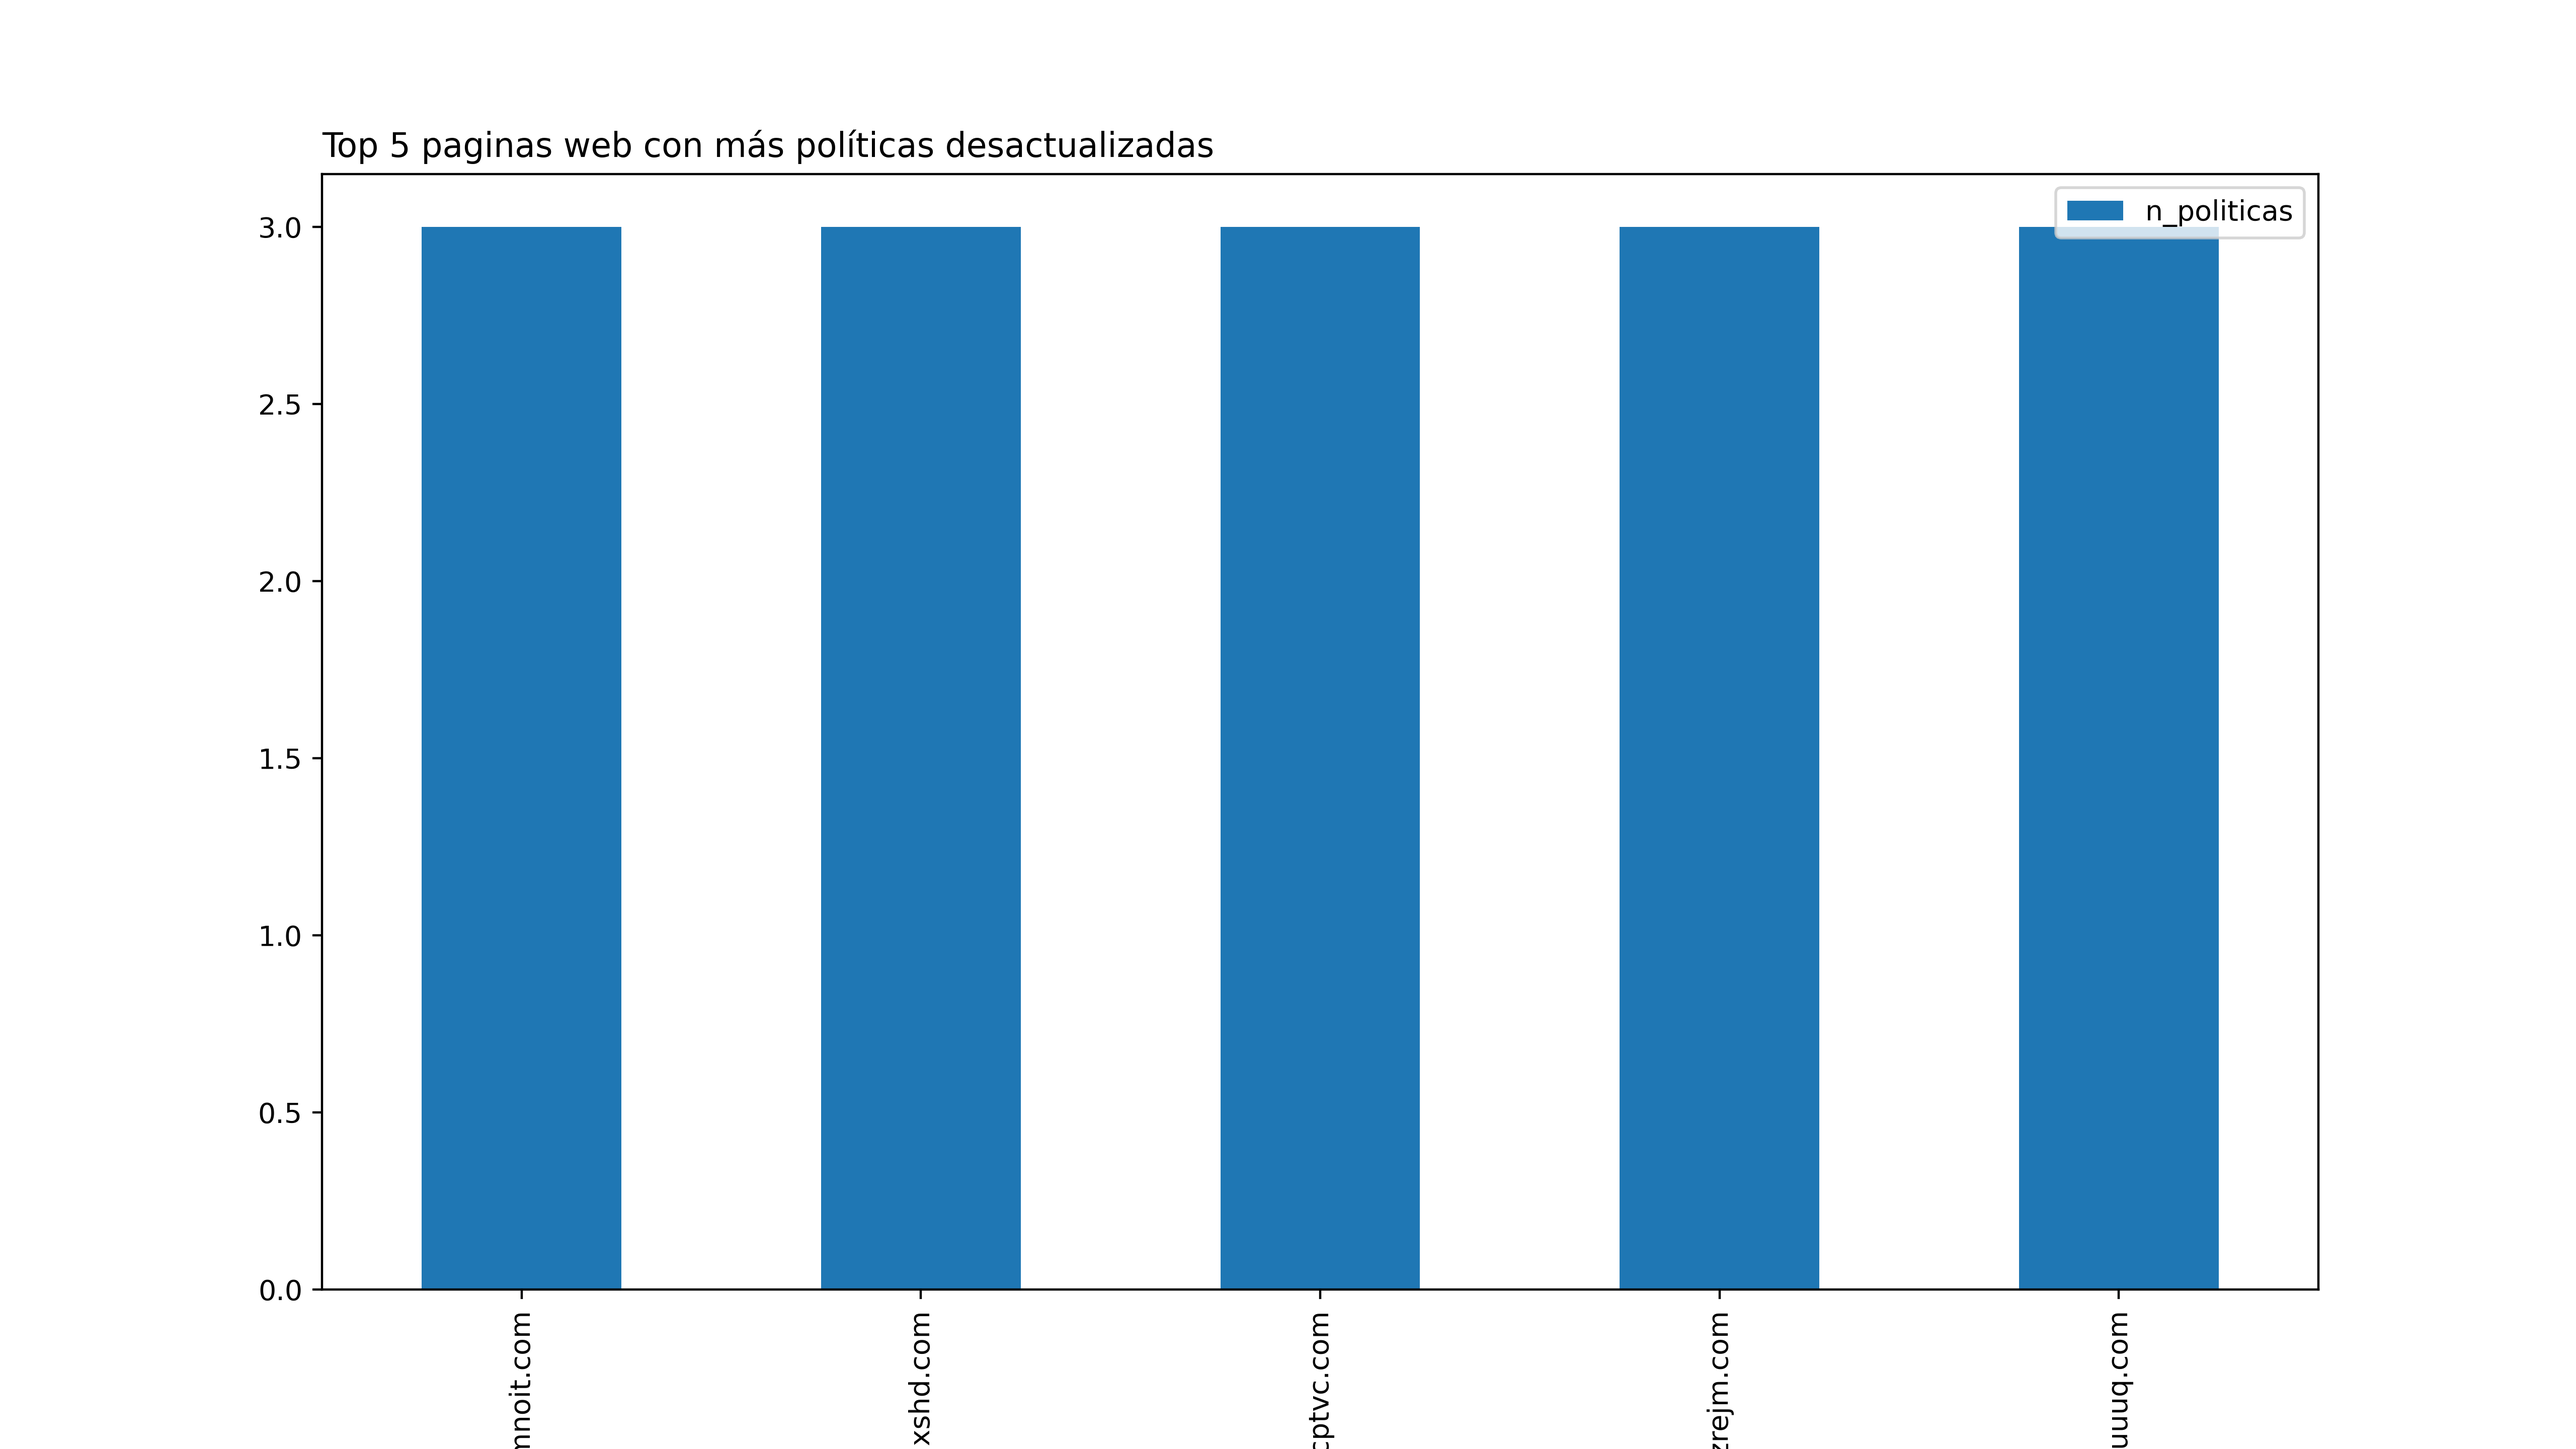
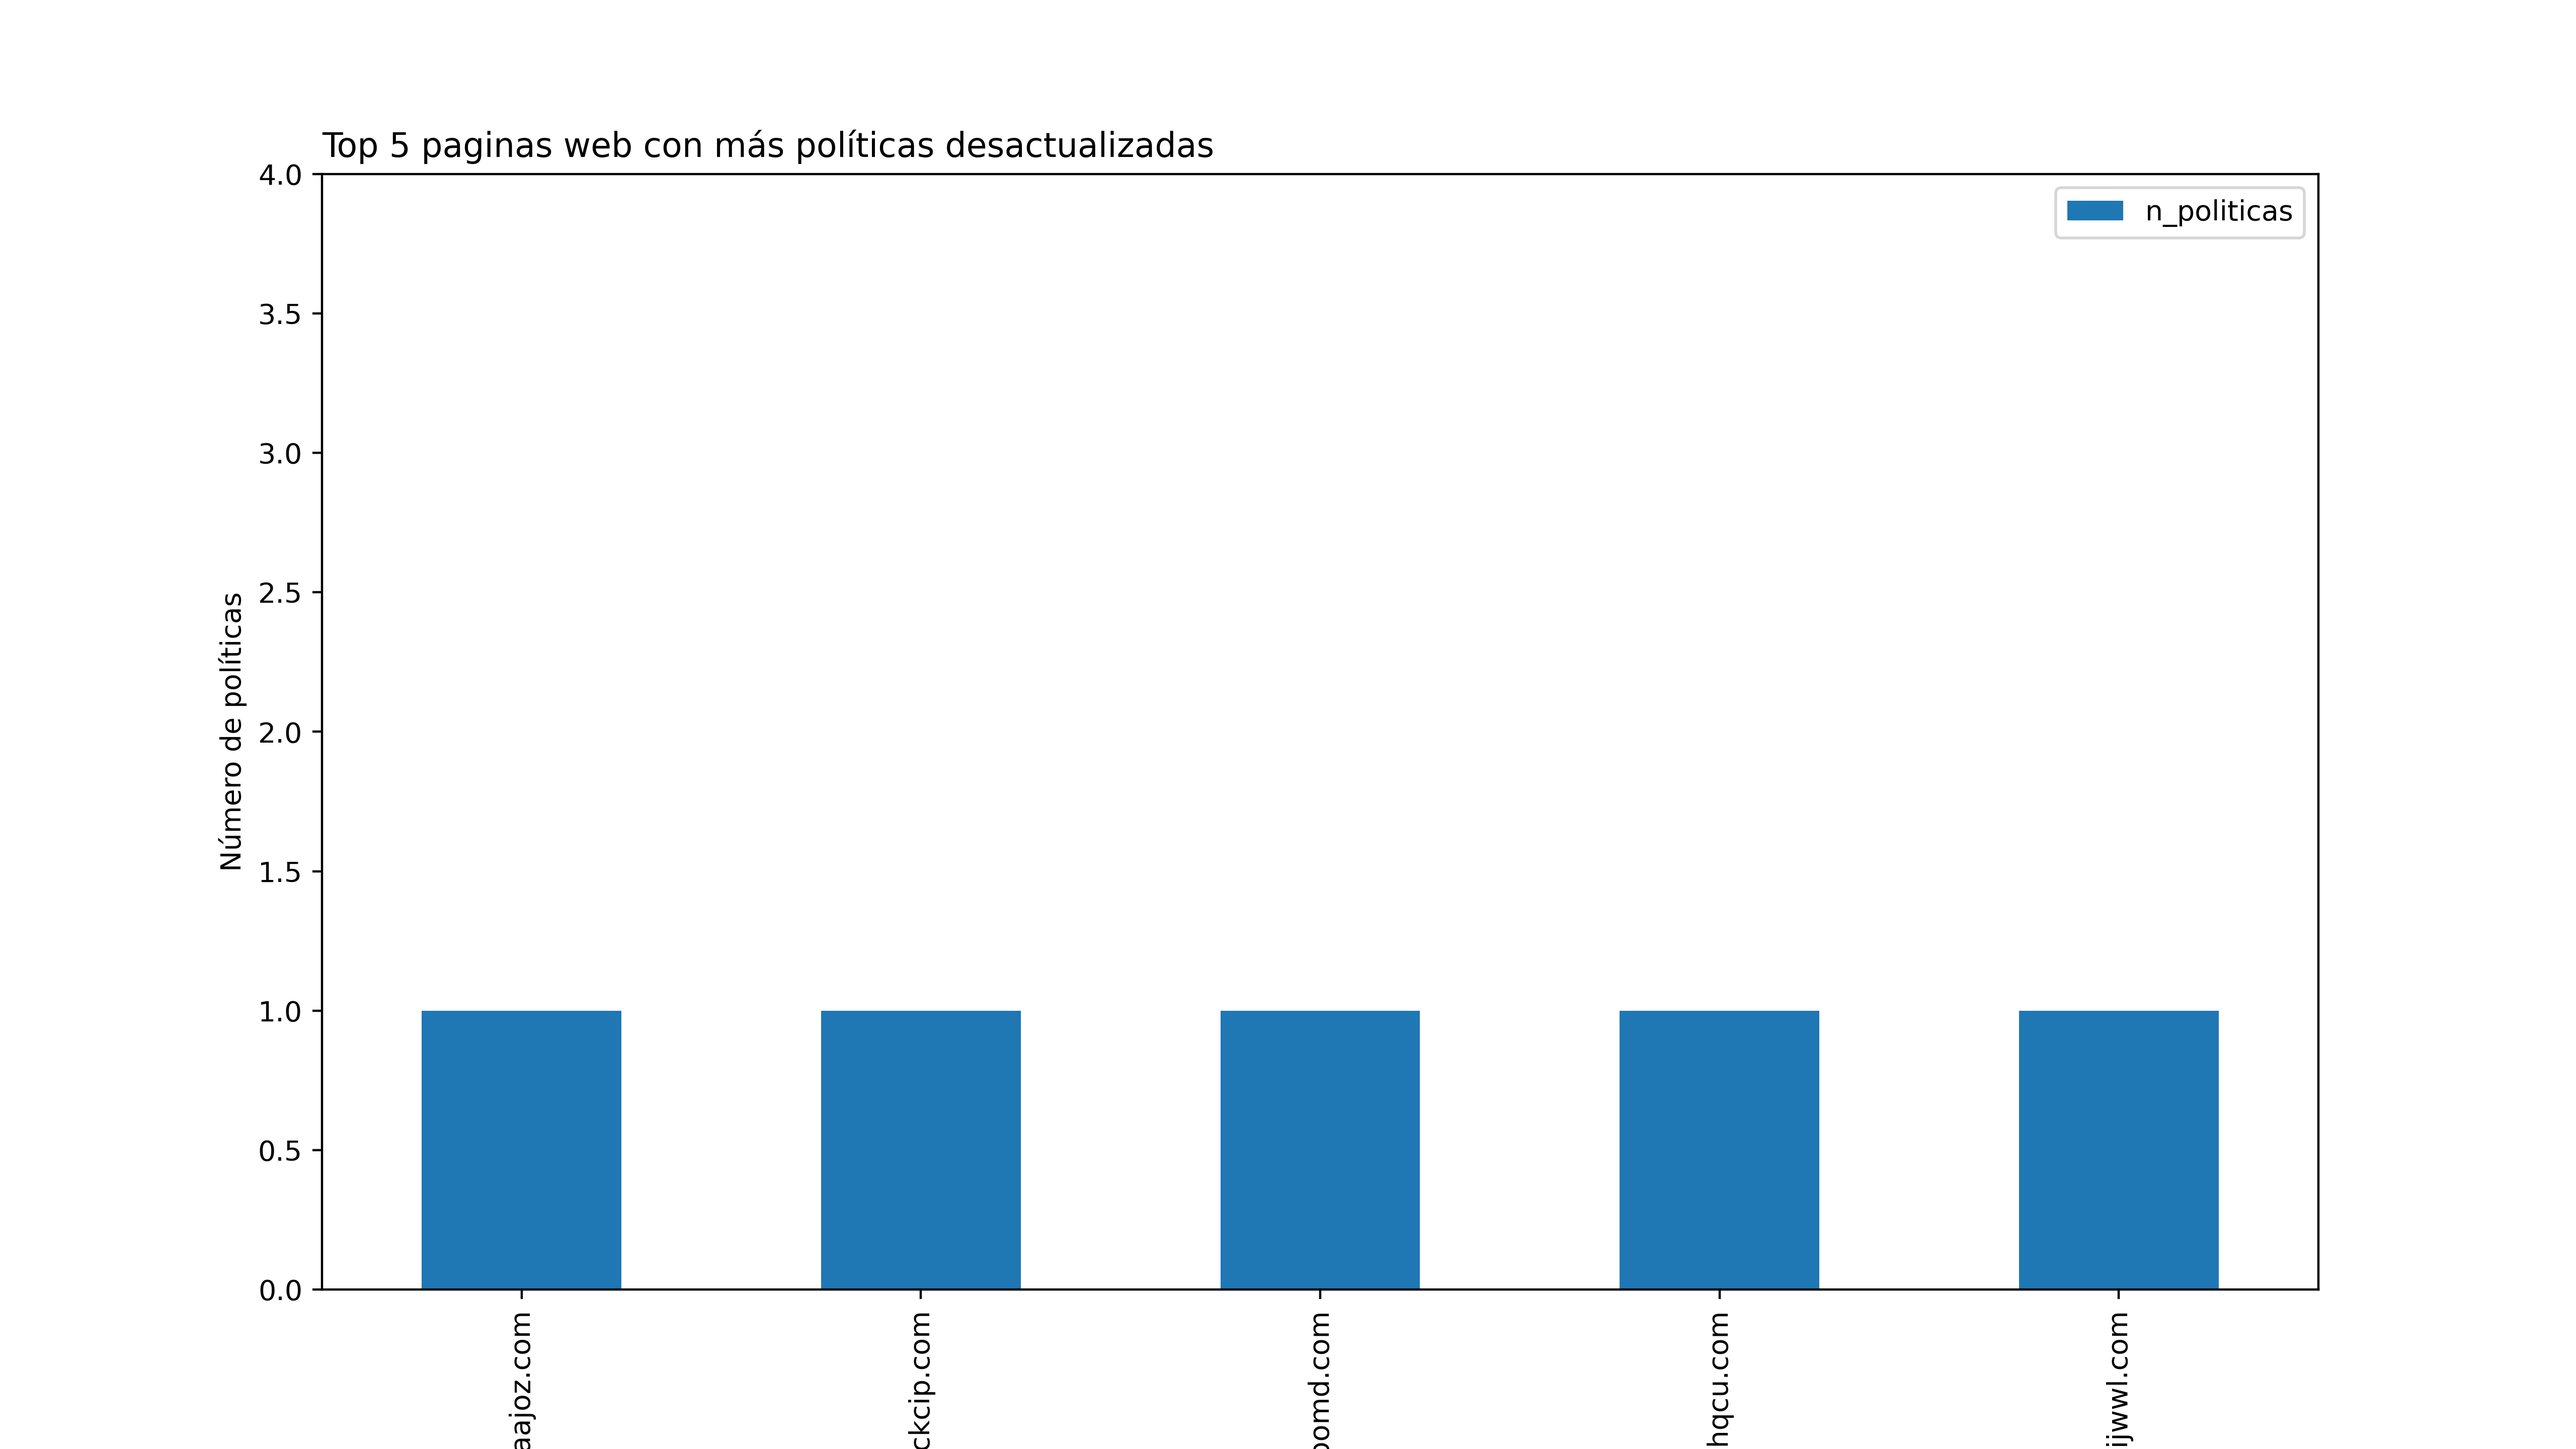
Grafiquitossss

diff --git a/src/Ejercicio4.py b/src/Ejercicio4.py
@@ -54,17 +54,22 @@ def top_users_plot(df: pd.DataFrame):
     df.plot(x='username', y='porcentaje_click', kind='bar', figsize=(12.8, 7.2))
     plt.title('Top 10 usuarios críticos según su porcentaje de clicks en phising', loc='left')
     plt.ylim((0,100))
+    plt.xlabel('Usuarios')
+    plt.ylabel('% de clicks en phising')
     plt.show()
 
 def get_paginas_desactualizadas(df: pd.DataFrame):
     for i, r in df.iterrows():
         df._set_value(i, 'n_politicas', r['cookies'] + r['aviso'] + r['proteccion_datos'])
-    return df.sort_values(['n_politicas', 'creacion'], ascending=[False, True]).head(5)
+    print(df.sort_values(['n_politicas', 'creacion'], ascending=[True, True]).head(5))
+    return df.sort_values(['n_politicas', 'creacion'], ascending=[True, True]).head(5)
 
 def paginas_plot(df: pd.DataFrame):
     df.plot(x='url', y='n_politicas', kind='bar',figsize=(12.8, 7.2))
-    plt.ylim()
+    plt.ylim((0, 4))
     plt.title('Top 5 paginas web con más políticas desactualizadas', loc='left')
+    plt.xlabel('Sitios web')
+    plt.ylabel('Número de políticas')
     plt.savefig('../graphics/4-2.png', dpi=400)
     plt.show()
 
